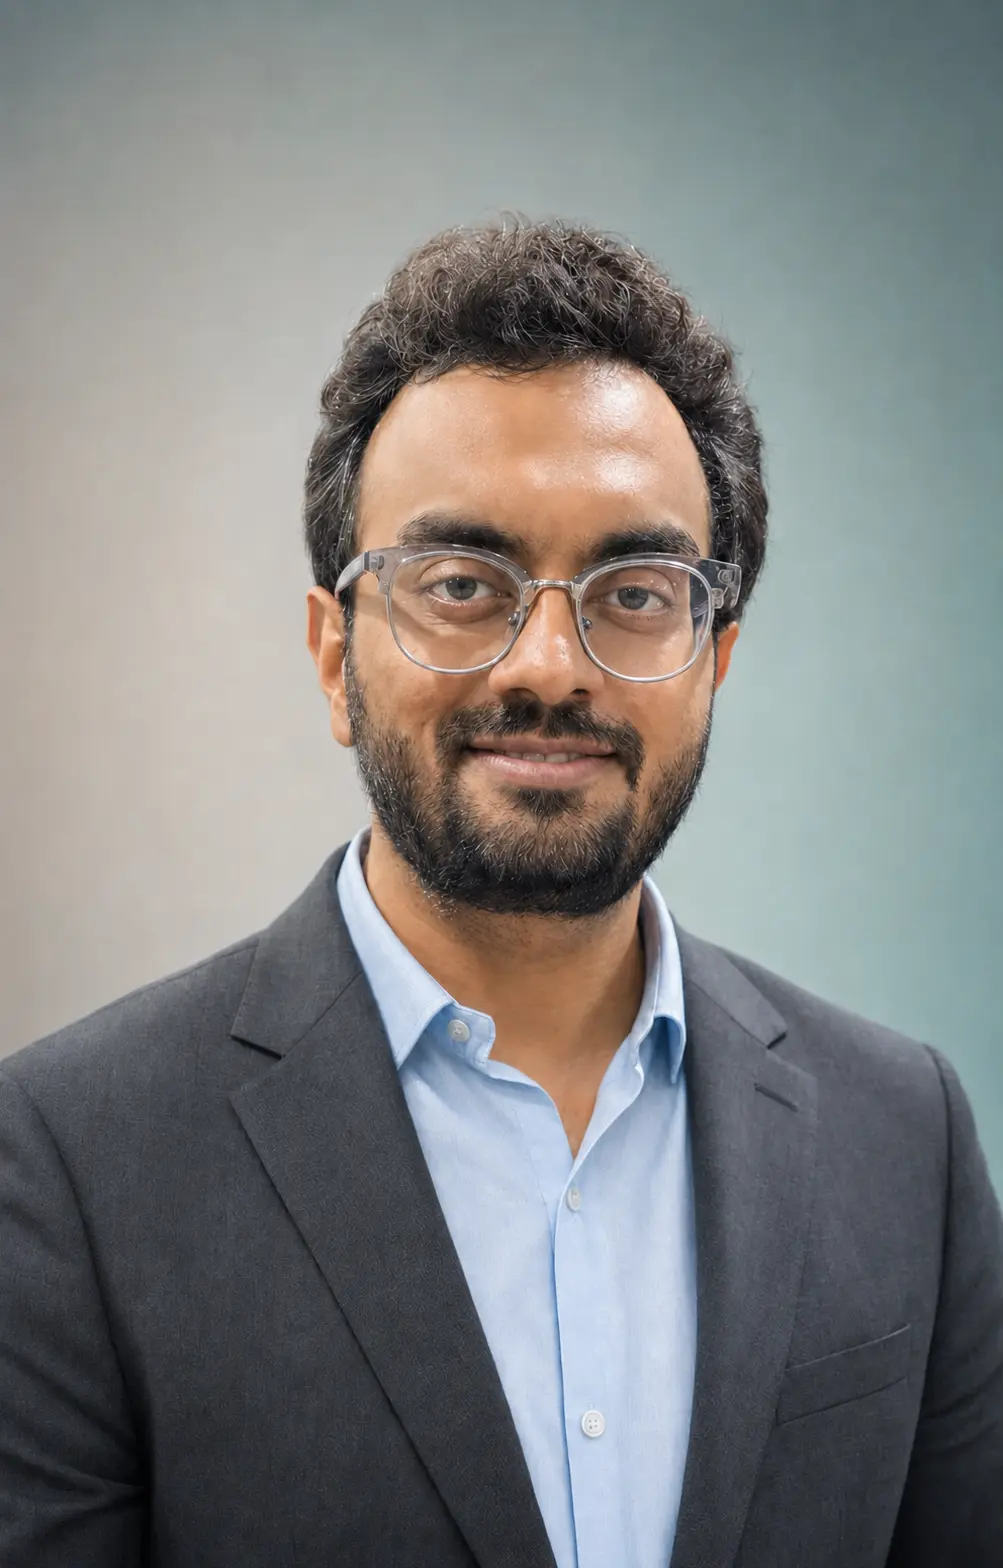
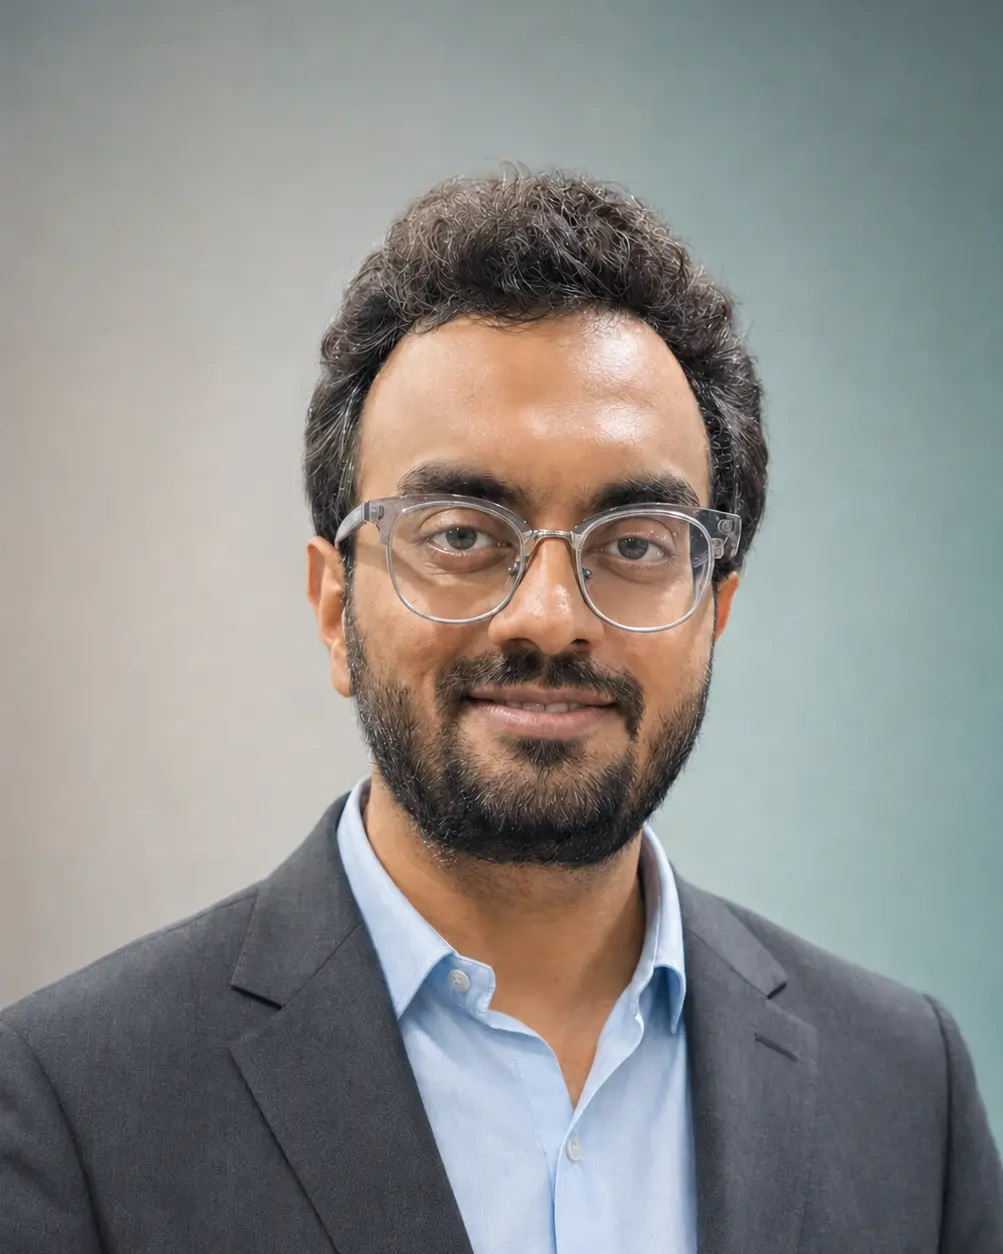
Center leadership profile images and ensure complete face visibility across all team cards and profiles

diff --git a/pages/our-team.php b/pages/our-team.php
@@ -126,9 +126,8 @@ render_breadcrumbs([
         <?php foreach ($board_members as $member): ?>
           <div style="background: #FFFFFF; border-radius: var(--radius-lg); border: 1.5px solid rgba(6, 43, 99, 0.16); box-shadow: var(--shadow-sm); overflow: hidden; display: flex; flex-direction: column; transition: transform 0.25s ease, box-shadow 0.25s ease;">
             
-            <div style="height: 320px; background-color: var(--pastel-blue); position: relative; overflow: hidden;">
-              <img src="<?php echo h($member['image']); ?>" alt="<?php echo h($member['name']); ?>" style="width: 100%; height: 100%; object-fit: cover; object-position: top center;">
-              <div style="position: absolute; bottom: 0; left: 0; right: 0; background: linear-gradient(to top, rgba(10,37,64,0.7) 0%, transparent 100%); height: 80px;"></div>
+            <div style="height: 360px; background-color: var(--pastel-blue); position: relative; overflow: hidden;">
+              <img src="<?php echo h($member['image']); ?>" alt="<?php echo h($member['name']); ?>" style="width: 100%; height: 100%; object-fit: cover; object-position: center 12%;">
             </div>
 
             <div style="padding: 2rem; display: flex; flex-direction: column; flex-grow: 1; justify-content: space-between;">
@@ -184,9 +183,8 @@ render_breadcrumbs([
             <?php foreach ($academic_members as $member): ?>
               <div style="background: #FFFFFF; border-radius: var(--radius-lg); border: 1.5px solid rgba(6, 43, 99, 0.16); box-shadow: var(--shadow-sm); overflow: hidden; display: flex; flex-direction: column; transition: transform 0.25s ease, box-shadow 0.25s ease;">
                 
-                <div style="height: 320px; background-color: var(--pastel-blue); position: relative; overflow: hidden;">
-                  <img src="<?php echo h($member['image']); ?>" alt="<?php echo h($member['name']); ?>" style="width: 100%; height: 100%; object-fit: cover; object-position: top center;">
-                  <div style="position: absolute; bottom: 0; left: 0; right: 0; background: linear-gradient(to top, rgba(10,37,64,0.7) 0%, transparent 100%); height: 80px;"></div>
+                <div style="height: 360px; background-color: var(--pastel-blue); position: relative; overflow: hidden;">
+                  <img src="<?php echo h($member['image']); ?>" alt="<?php echo h($member['name']); ?>" style="width: 100%; height: 100%; object-fit: cover; object-position: center 12%;">
                 </div>
 
                 <div style="padding: 2rem; display: flex; flex-direction: column; flex-grow: 1; justify-content: space-between;">

diff --git a/pages/about.php b/pages/about.php
@@ -705,9 +705,9 @@ render_breadcrumbs([
         if (empty($leader['is_published'])) continue;
       ?>
         <div class="card" style="background-color: #FFFFFF; border-radius: var(--radius-lg); overflow: hidden; box-shadow: var(--shadow-sm); display: flex; flex-direction: column;">
-          <div style="height: 320px; background-color: var(--color-navy); display: flex; justify-content: center; align-items: center; color: #FFFFFF;">
+          <div style="height: 360px; background-color: var(--pastel-blue); display: flex; justify-content: center; align-items: center; overflow: hidden;">
             <?php if (!empty($leader['image'])): ?>
-              <img src="<?php echo h($leader['image']); ?>" alt="<?php echo h($leader['name']); ?>" style="width: 100%; height: 100%; object-fit: cover;">
+              <img src="<?php echo h($leader['image']); ?>" alt="<?php echo h($leader['name']); ?>" style="width: 100%; height: 100%; object-fit: cover; object-position: center 12%;">
             <?php else: ?>
               <span style="font-size: 1.5rem; font-weight: 700; font-family: var(--font-primary);"><?php echo h($leader['name']); ?></span>
             <?php endif; ?>

diff --git a/pages/about-detail.php b/pages/about-detail.php
@@ -144,7 +144,7 @@ render_breadcrumbs([
         
         <!-- Avatar Photo Frame -->
         <div style="width: 180px; height: 180px; border-radius: 50%; overflow: hidden; border: 4px solid var(--color-gold); box-shadow: var(--shadow-lg); background-color: var(--pastel-blue); flex-shrink: 0;">
-          <img src="<?php echo h($leader['image']); ?>" alt="<?php echo h($leader['name']); ?>" style="width: 100%; height: 100%; object-fit: cover; object-position: top center;">
+          <img src="<?php echo h($leader['image']); ?>" alt="<?php echo h($leader['name']); ?>" style="width: 100%; height: 100%; object-fit: cover; object-position: center 15%;">
         </div>
 
         <!-- Meta Text Column -->
